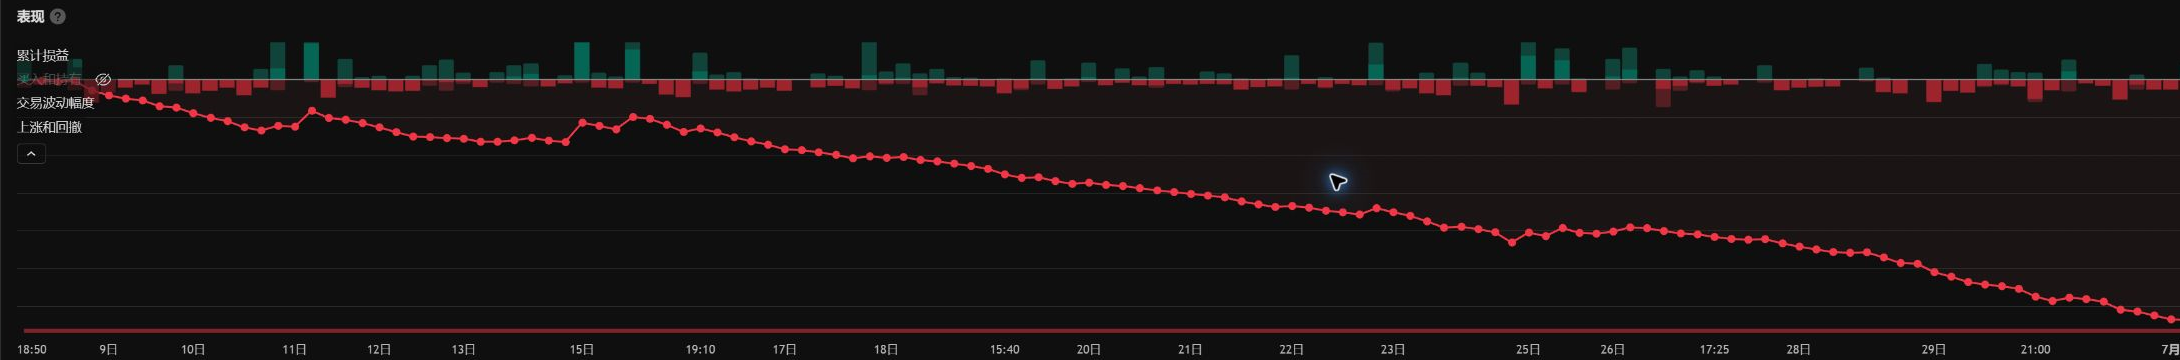
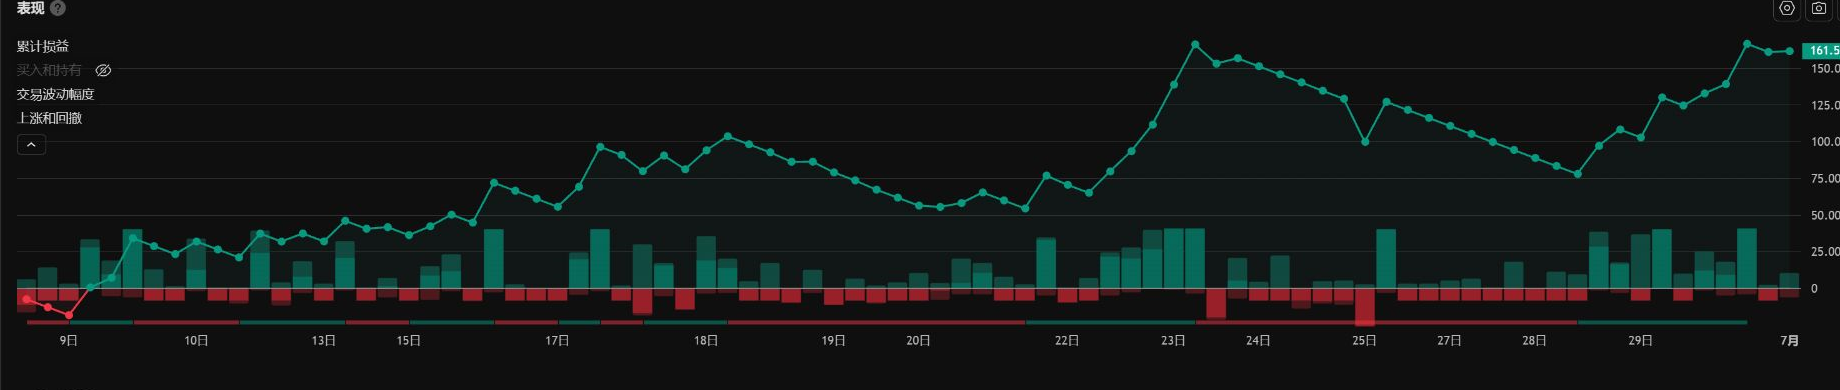
Complete TradingView report screenshot walkthrough

diff --git a/plugins/backtest-skill/scripts/validate.js b/plugins/backtest-skill/scripts/validate.js
@@ -241,6 +241,7 @@ for (const file of [
   "docs/assets/tradingview-new-account-backtest-start/04-strategy-tester-key-stats.png",
   "docs/assets/tradingview-new-account-backtest-start/05-equity-curve-drawdown.png",
   "docs/assets/tradingview-new-account-backtest-start/06-report-detail-section.png",
+  "docs/assets/tradingview-new-account-backtest-start/12-report-equity-ups-downs-and-capital-efficiency.png",
   "docs/assets/tradingview-new-account-backtest-start/07-before-opening-pine-editor.png",
   "docs/assets/tradingview-new-account-backtest-start/08-pine-panel-current-state.png",
   "docs/assets/tradingview-new-account-backtest-start/09-pine-editor-code-closeup.png",
@@ -366,10 +367,14 @@ assertContains("docs/tradingview-new-account-backtest-start.md", "03-strategy-on
 assertContains("docs/tradingview-new-account-backtest-start.md", "04-strategy-tester-key-stats.png");
 assertContains("docs/tradingview-new-account-backtest-start.md", "05-equity-curve-drawdown.png");
 assertContains("docs/tradingview-new-account-backtest-start.md", "06-report-detail-section.png");
+assertContains("docs/tradingview-new-account-backtest-start.md", "12-report-equity-ups-downs-and-capital-efficiency.png");
 assertContains("docs/tradingview-new-account-backtest-start.md", "07-before-opening-pine-editor.png");
 assertContains("docs/tradingview-new-account-backtest-start.md", "08-pine-panel-current-state.png");
 assertContains("docs/tradingview-new-account-backtest-start.md", "09-pine-editor-code-closeup.png");
 assertContains("docs/tradingview-new-account-backtest-start.md", "01-user-observed-report.png");
+assertContains("docs/tradingview-new-account-backtest-start.md", "TV Backtest Skill Chart Rich Fixture v4");
+assertContains("docs/tradingview-new-account-backtest-start.md", "没有足够的数据显示");
+assertContains("docs/tradingview-new-account-backtest-start.md", "先改策略样本或扩大样本");
 assertContains("docs/tradingview-new-account-backtest-start.md", "不要把年化 20% 当作当前阶段目标");
 assertContains("plugins/backtest-skill/README.md", "`strategy()` consumes an indicator slot");
 assertContains("plugins/backtest-skill/README.md", "end-to-end-browser-run.md");